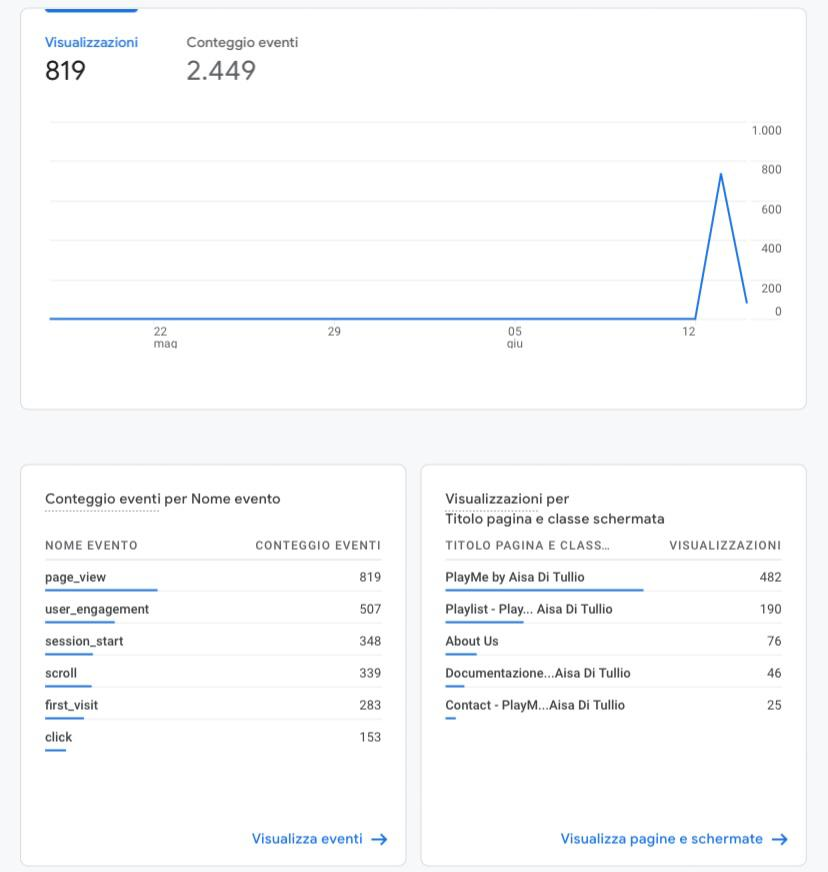
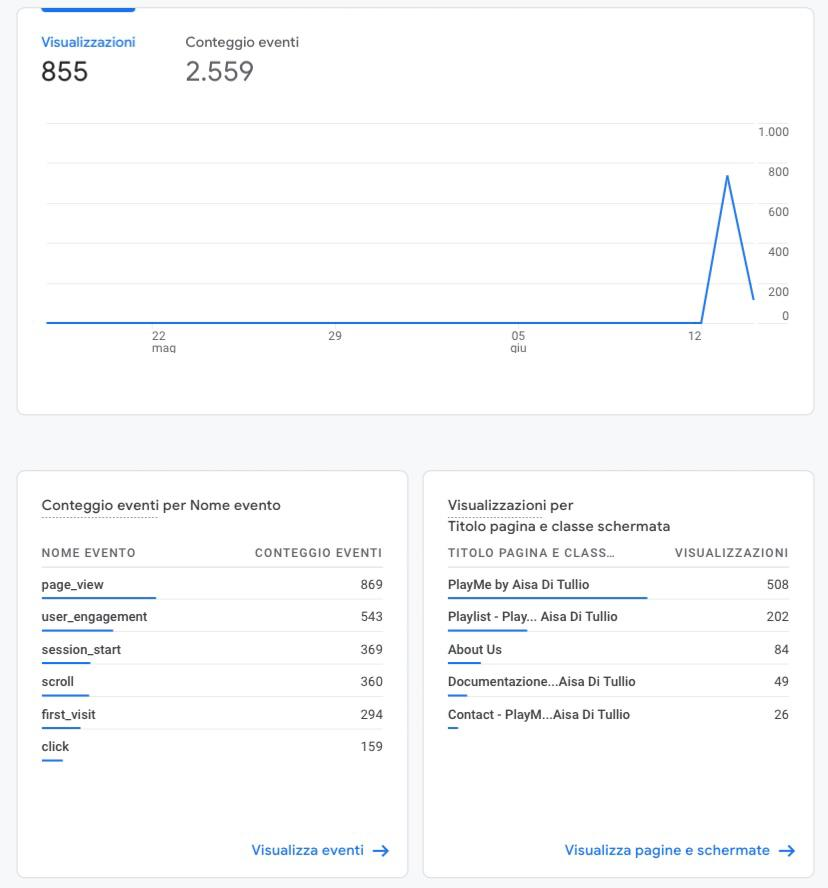
Add files via upload

diff --git a/doc.html b/doc.html
@@ -136,7 +136,7 @@
 								<p>La promozione di PlayMe è stata via internet: tramite Stories e post su Instagram, un servizio di rete sociale che epermette agli utenti di scattare foto, applicarvi filtri e condividerle via web; gruppi chat su Whatsapp e via Twitter.</p>
 								
 								<h4><b>5. Valutazione dei risultati</b></h4>
-								<p>Su un obiettivo di circa 150 visualizzazioni, a sole 36 ore dalla pubblicazione, il sito ne ha raggiunte 283 (quasi il doppio): contando 279 utenti provenienti dall'Italia, 2 provenienti dal Belgio, 2 dagli Stati Uniti e uno dalla Spagna.</p>
+								<p>Su un obiettivo di circa 150 visualizzazioni, a sole 48 ore dalla pubblicazione, il sito ne ha raggiunte 295 (quasi il doppio), contando: 291 utenti provenienti dall'Italia, 2 provenienti dal Belgio, 2 dagli Stati Uniti e uno dalla Spagna.</p>
 								 <img src="images/utenti.jpg" alt="dati utenti" width="350" height="200" title="Numero di utenti">
 								 <img src="images/mappa.jpg" alt="Mappa utenti" width="350" height="200" title="Mappa di accesso">
 								 <p>Fig. 3: panoramica di Google Analytics che mostra quanti utenti utenti hanno visitato il sito.
@@ -146,29 +146,30 @@
 								<img src="images/dati1.jpg" alt="dati acquisizione degli utenti" width="400" height="450" title="Acquisizione degli utenti"> 
 								<img src="images/dati2.jpg" alt="dati panoramica di coinvolgimeto utenti" width="400" height="450" title="Panoramica di coinvolgimento">
 								<br>
-								<p>Fig. 5: sono i dati di acquisizione degli utenti, ossia il modo con gli utenti sono entrati sul sito (ricerca organica, diretti digitando un indirizzo, attraverso un linkda un altro sito, ecc.).
+								<p>Fig. 5: sono i dati di acquisizione degli utenti, ossia il modo con gli utenti sono entrati sul sito (es. tramite ricerca organica, digitando direttamente l'indirizzo, attraverso un link proveniente da un altro sito, ecc.).
 								<br>
 								Fig. 6: raccolta dati circa la panoramica di coinvolgimento degli utenti.</p>
 
-								<p>Il sito è stato condiviso anche attraverso storie e post sul mio profilo Instangram raggiungendo: 436 visualizzazioni, 91 clicks sul link della storia e 106 likes al post.</p>
+								<p>Il sito è stato condiviso e pubblicizzato attraverso storie e post sul mio profilo Instangram totalizzando: 436 visualizzazioni , 91 click sul link (presente nella storia)  e 106 likes al post.</p>
 								<img src="images/storiainsta1.jpg" alt="dati rilevati della storia" width="300" height="550" title="Story insights">
 								<img src="images/postinsta.jpg" alt="likes post" width="300" height="550" title="Post insights">
-								<p>Fig. 7: Dati rilevati dalla storia Instagram condivisa da un altro utente.</p>
 
 								<p>Il link è stato poi condiviso da altri utenti sempre su piattaforma instangram:</p>
 								<img src="images/storiagiul.jpg" alt="dati rilevati della storia" width="300" height="550" title="Story insights">
+								<p>Fig. 7: Dati rilevati dalla storia Instagram condivisa da un altro utente.</p>
 
-								<p>Al termine delle 36 ore sono stati raccolti i feedback provenienti dalla piattaforma Instagram e dalle Chat su WhatsApp:</p>
-								<img src="images/feedbackinsta.jpg" alt="feedbacks" width="300" height="550" title="Feedbacks">
-								<img src="images/feedbackinsta2.jpg" alt="feedbacks" width="300" height="550" title="Feedbacks">
-								<p>Fig. 8 e 9: Feedbacks Instagram</p>
+								<p>Al termine delle 48 ore sono stati raccolti i feedback provenienti dalla piattaforma Instagram e dalle Chat su WhatsApp:</p>
+								<img src="images/feedbackinsta.jpg" alt="feedback" width="300" height="525" title="Feedback">
+								<img src="images/feedbackinsta2.jpg" alt="feedbacks" width="300" height="525" title="Feedback">
+								<p>Fig. 8 e 9: Feedback Instagram.</p>
 
-								<img src="images/fwa1.jpg" alt="feedbacks" width="300" height="500" title="Feedbacks">
-								<img src="images/fwa2.jpg" alt="feedbacks" width="300" height="500" title="Feedbacks">
-								<img src="images/fwa3.jpg" alt="feedbacks" width="300" height="500" title="Feedbacks">
-								<img src="images/fwa4.jpg" alt="feedbacks" width="300" height="500" title="Feedbacks">
-								<img src="images/fwa5.jpg" alt="feedbacks" width="300" height="350" title="Feedbacks">
-								<img src="images/fwa6.jpg" alt="feedbacks" width="300" height="100" title="Feedbacks">
+								<img src="images/fwa1.jpg" alt="feedback" width="300" height="500" title="Feedback">
+								<img src="images/fwa2.jpg" alt="feedback" width="300" height="500" title="Feedback">
+								<img src="images/fwa3.jpg" alt="feedback" width="300" height="500" title="Feedback">
+								<img src="images/fwa4.jpg" alt="feedback" width="300" height="400" title="Feedback">
+								<img src="images/fwa5.jpg" alt="feedback" width="300" height="350" title="Feedback">
+								<img src="images/fwa6.jpg" alt="feedback" width="300" height="100" title="Feedback">
+								<p>Figure 10, 11, 12, 13, 14 e 15: Feedback WhatsApp.</p>
 								
 							</div>
 						</div>
